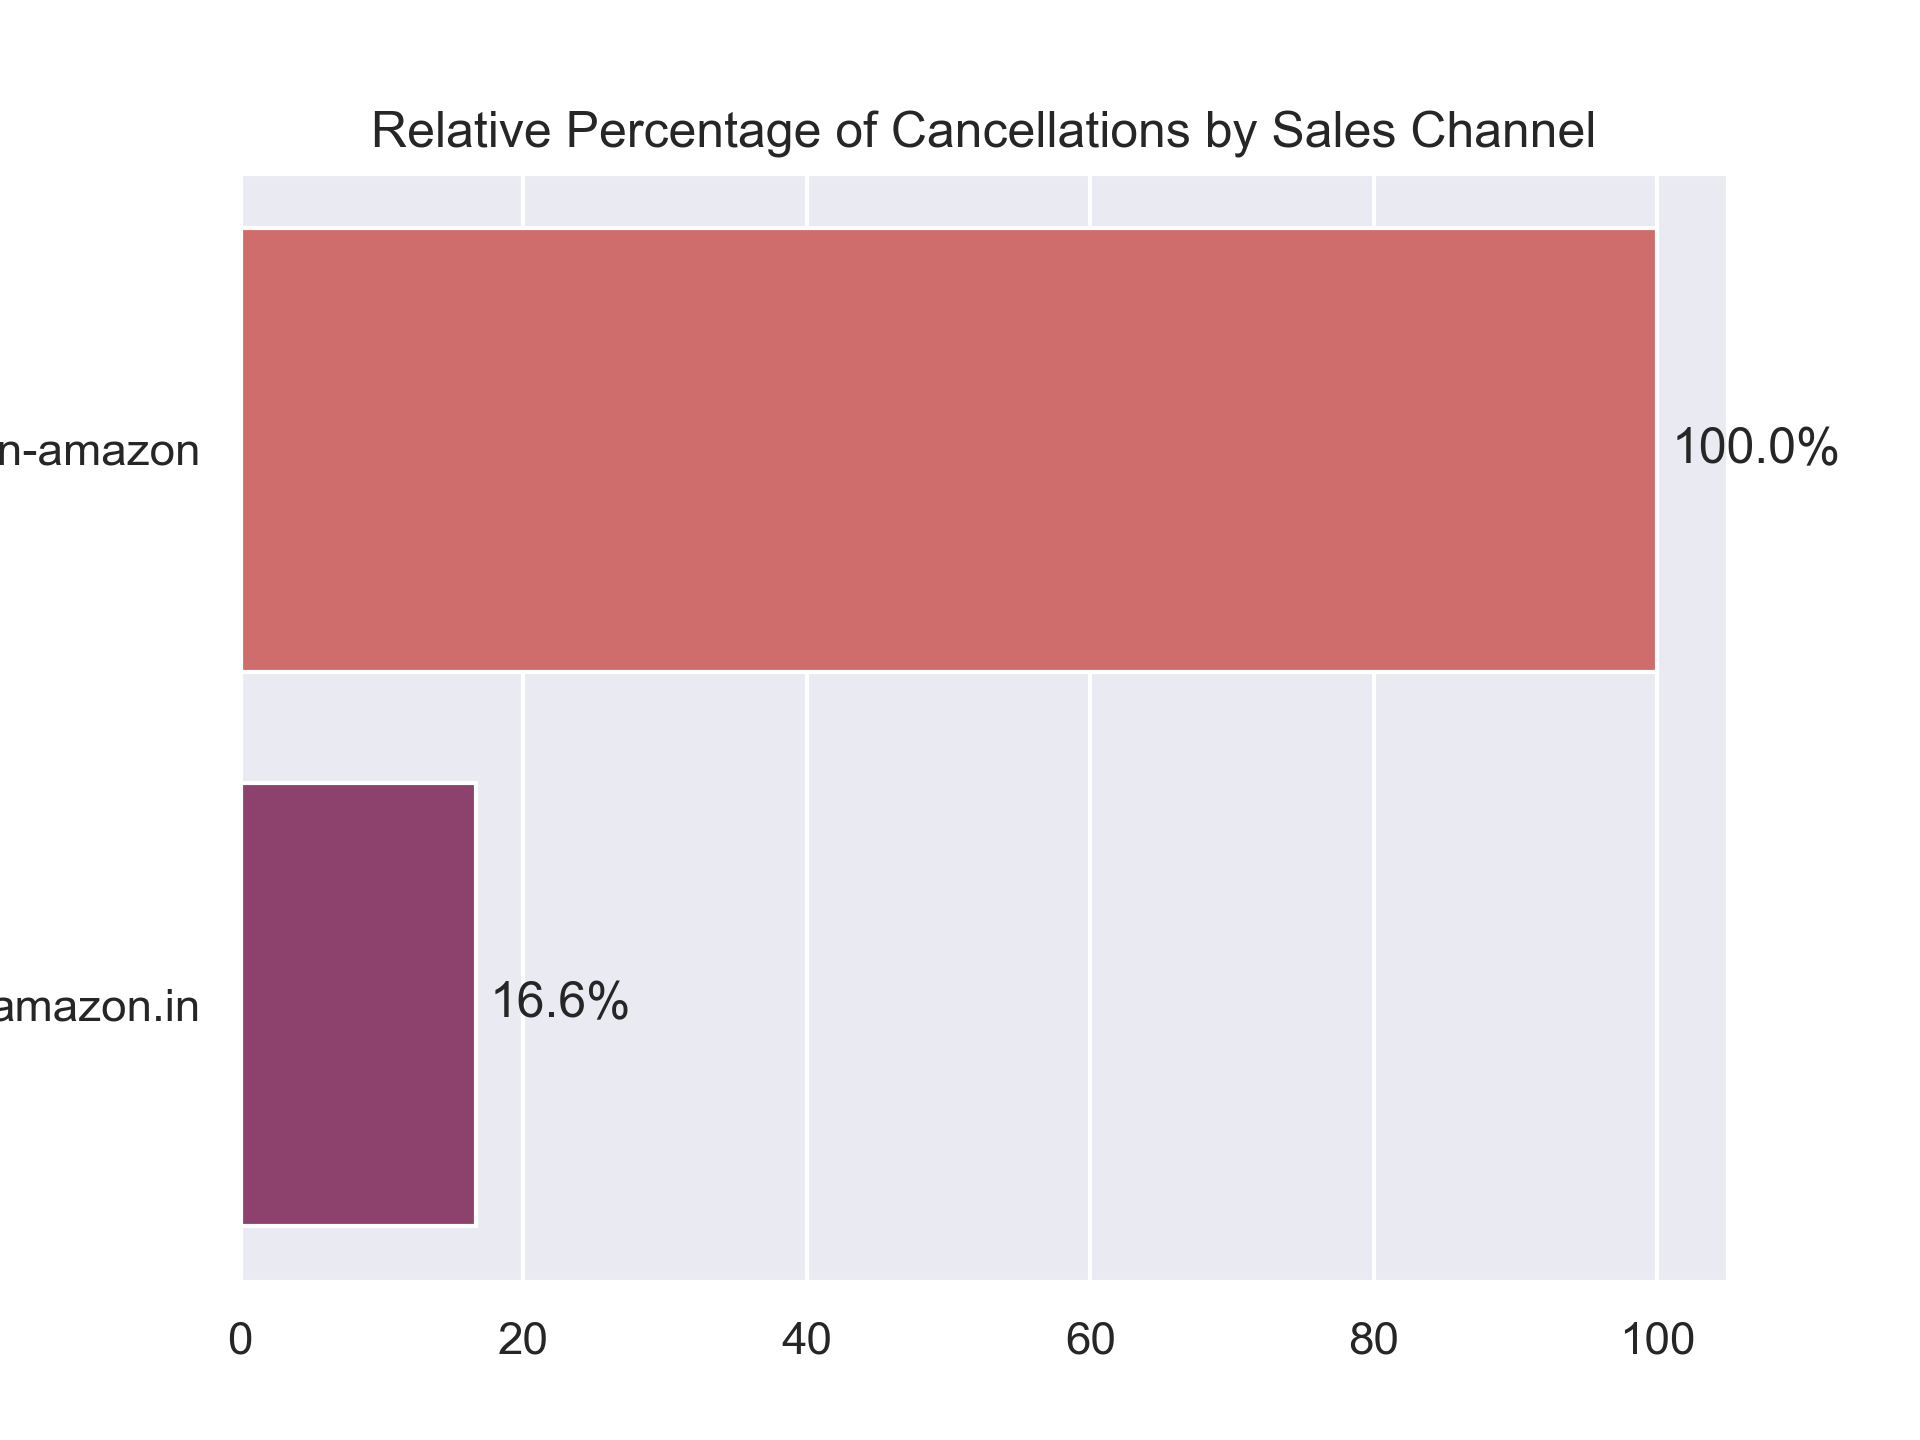
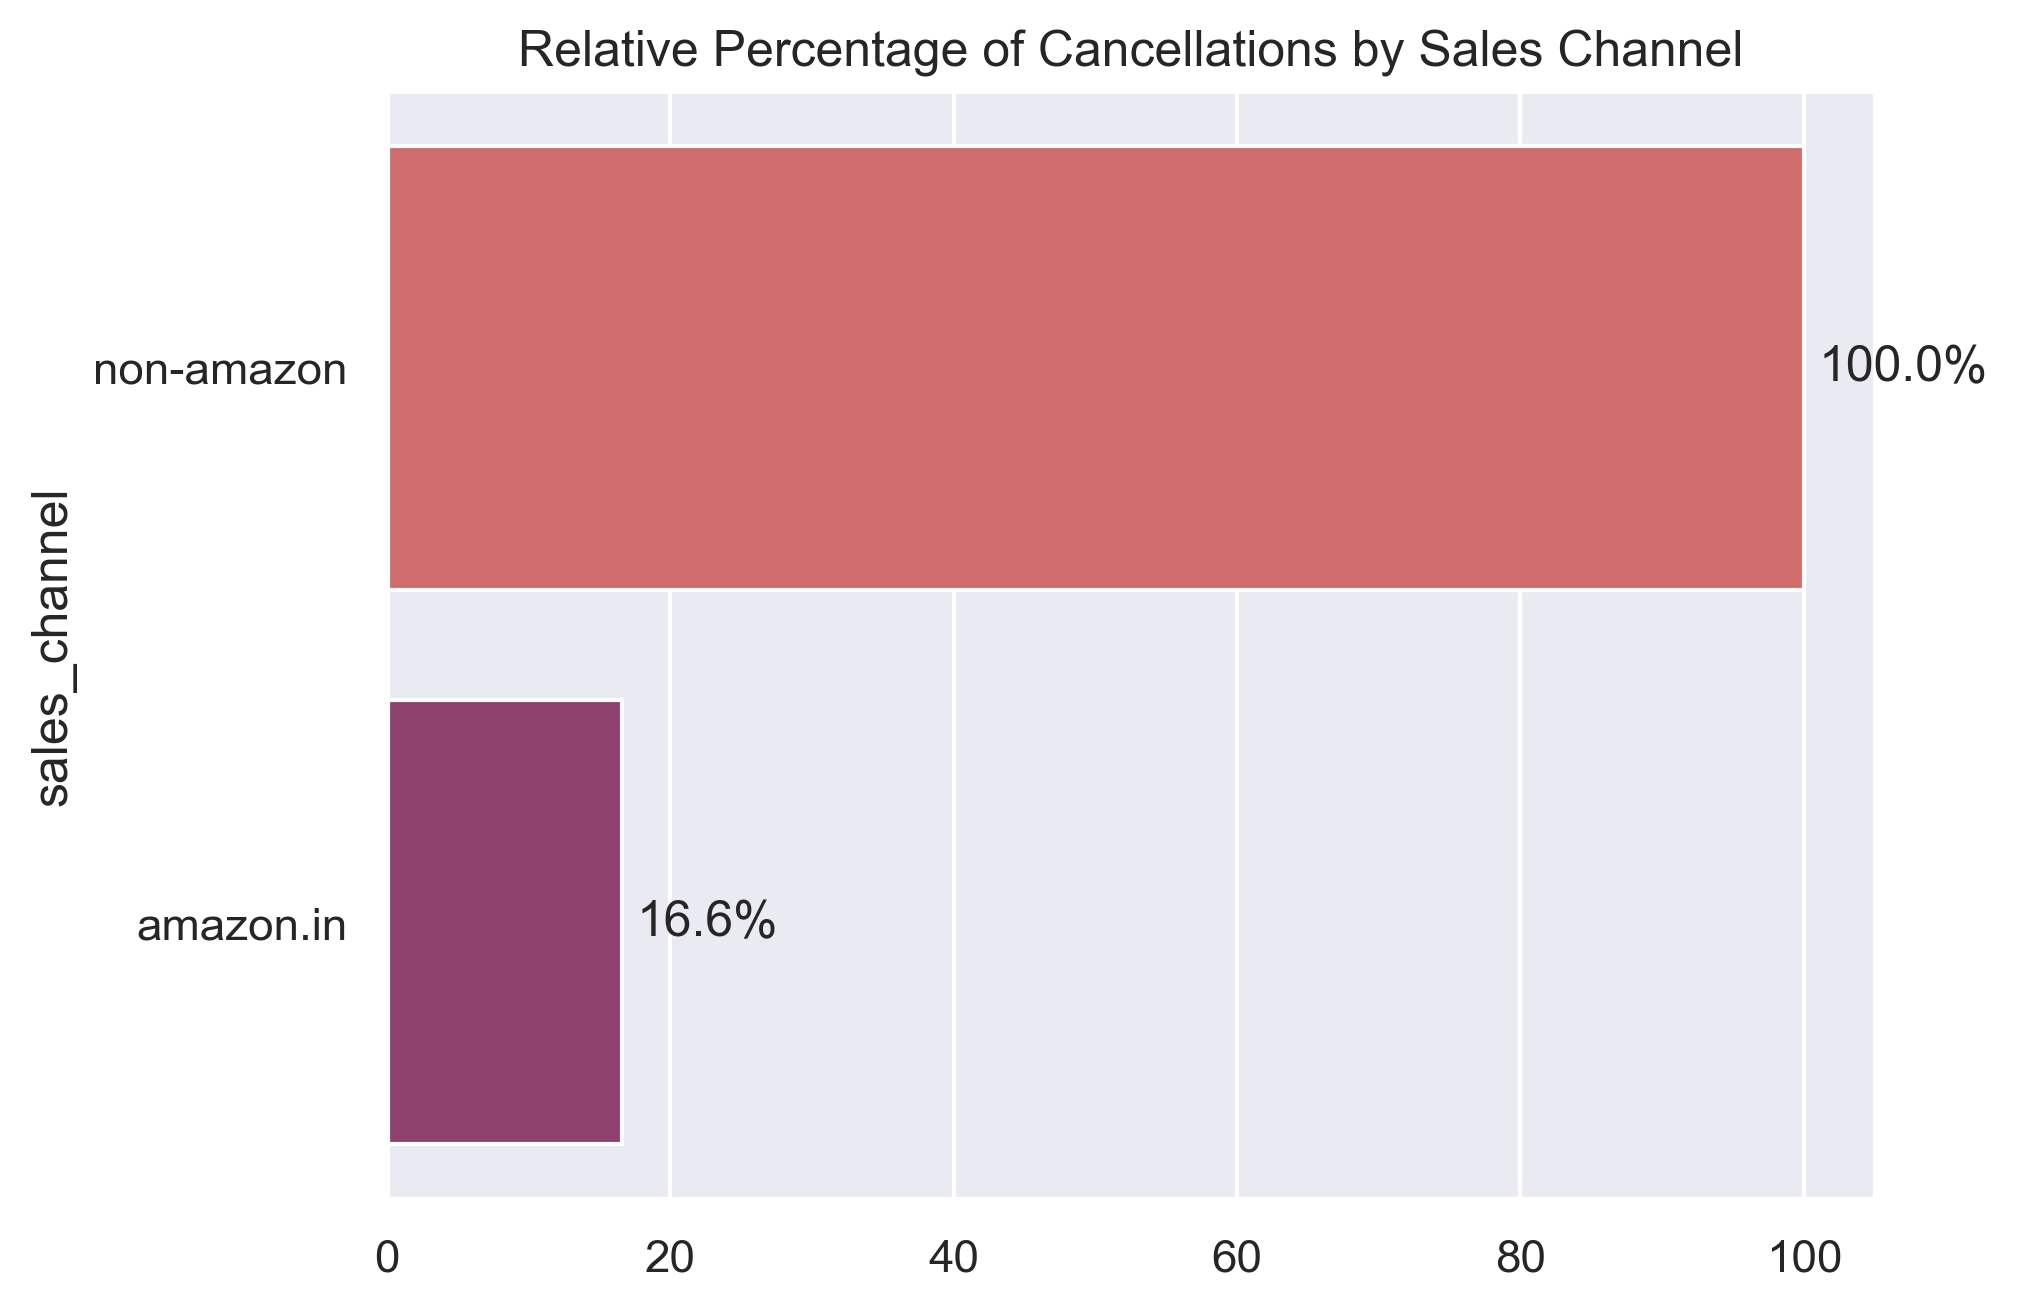
Update src and figures

diff --git a/src/visualization.py b/src/visualization.py
@@ -28,7 +28,7 @@ dataframes['sales']['category'].value_counts().plot(kind='barh')
 plt.xlabel('Number of items')
 plt.ylabel('')
 plt.title('Number of Items By Category')
-plt.savefig(project_root + '/outputs/figures/item_count_by_category.png', dpi=300, facecolor='white')
+plt.savefig(project_root + '/outputs/figures/item_count_by_category.png', dpi=300, facecolor='white', bbox_inches='tight')
 plt.close()
 
 # Split topsellers from sales
@@ -121,6 +121,8 @@ g.fig.suptitle('Price Distribution by Category', y=1.02)
 g.set_titles("{col_name}")
 g.set_axis_labels("Median Unit Price", "Count")
 plt.tight_layout()
+plt.savefig(project_root + '/outputs/figures/price_distribution.png', dpi=300, facecolor='white')
+plt.close()
 
 
 # Plot item order and revenue distributions by category
@@ -328,7 +330,8 @@ for cat in ['sales_channel', 'fulfillment', 'ship_service_level', 'category', 's
     plt.savefig(
         os.path.join(project_root, 'outputs', 'figures', f'cancellation_percentage_by_{cat}.png'), 
         dpi=300, 
-        facecolor='white'
+        facecolor='white',
+        bbox_inches='tight'
     )
     plt.close()
 
@@ -336,7 +339,7 @@ for cat in ['sales_channel', 'fulfillment', 'ship_service_level', 'category', 's
 # Plot order total amount distributions by status
 sns.kdeplot(dataframes['orders'], x='amount', hue='status', fill=True, multiple='stack')
 plt.xlabel('Order Total Amount')
-plt.savefig(project_root + '/outputs/figures/order_total_amount_distribution.png', dpi=300, facecolor='white')
+plt.savefig(project_root + '/outputs/figures/order_total_amount_distribution.png', dpi=300, facecolor='white', bbox_inches='tight')
 plt.close()
 
 

diff --git a/README.md b/README.md
@@ -1,9 +1,10 @@
 # Amazon E-Commerce Analysis
 
+(In Progress)
 Cleaning, analysis and visualization of Amazon sales data to evaluate product performance, cancellation patterns, regional demand, and revenue.
 
 
-#### Tree Directory 
+### Tree Directory 
 
 ```
 Amazon_ECommerce_Analysis/
@@ -17,5 +18,7 @@ Amazon_ECommerce_Analysis/
 │   └───tables
 └───src
 ```
-#### License
+
+
+### License
 MIT license
